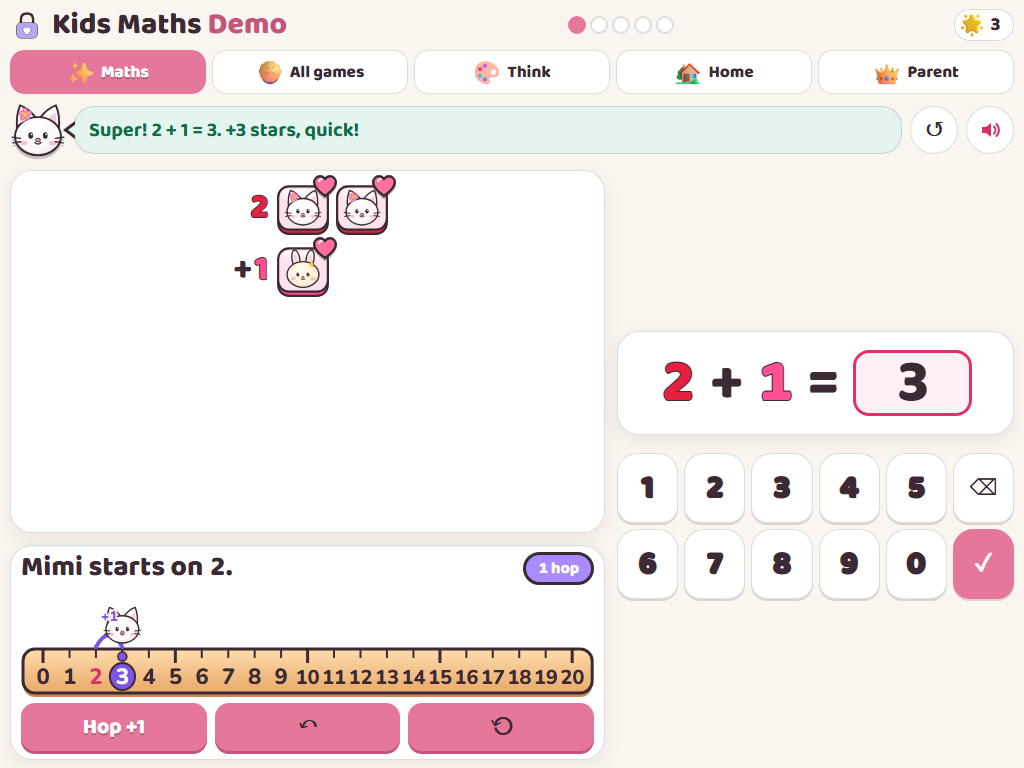
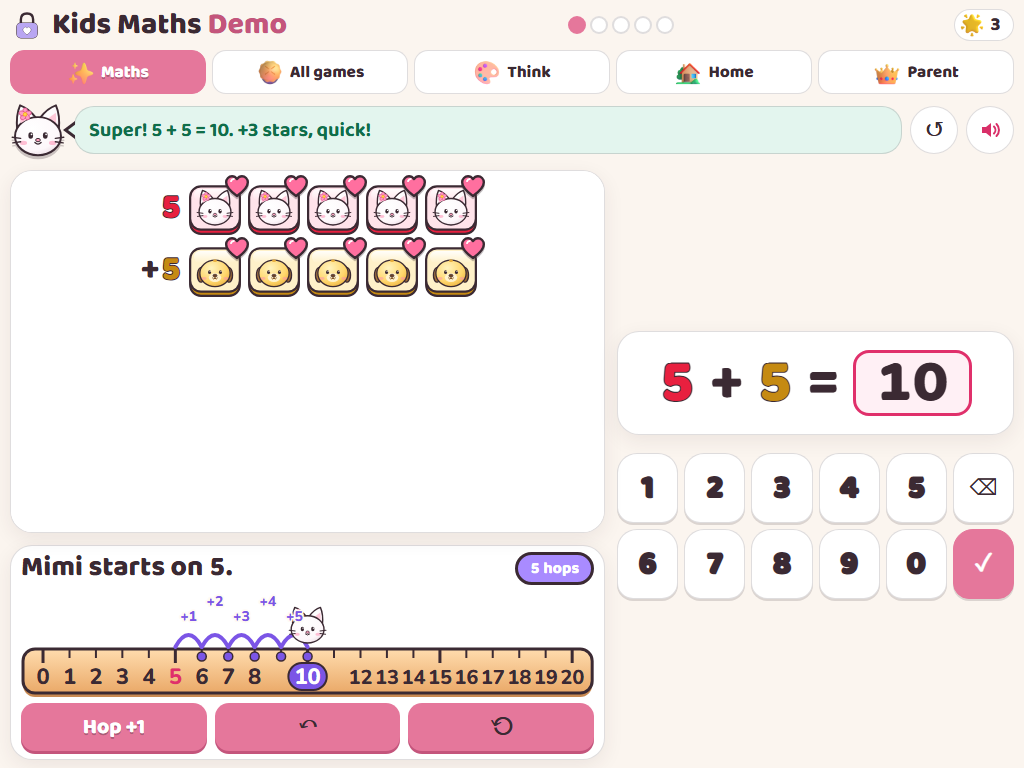
Back to the earlier sums screen for adding and taking away (Aldrin prefers it); River Crossing and Cafe Orders kept but switched off; Safari-engine chess test
Claude-Session: https://claude.ai/code/session_01T9KPNPMjnDcrQKtsaSJi3w

diff --git a/modules/mission.js b/modules/mission.js
@@ -5,6 +5,9 @@
 (function () {
   "use strict";
   const SET = 5, IDLE_CAP = 60000;
+  // Aldrin prefers the earlier sums screen (blocks, number line, keypad) for adding and taking away (19 Oct 2026).
+  // River Crossing and Cafe Orders stay in the code but are switched off.
+  const USE_NEW_SUMS_GAMES = false;
   let M = null, set = null, i = 0, inSet = 0, lastTouch = 0;
   const map = () => M || (M = KidsEngine.buildSkillMap(window.MathTopics || []));
   const now = () => Date.now();
@@ -45,14 +48,14 @@
     const s = map().map[id];
     if (!s || !s.ready) { i++; return i < set.items.length ? play() : nextSet(); }
     // Kennedy's adding and taking away to 20 is played as River Crossing: the number line is the river.
-    if (s.play.src === "sums" && who === "kennedy" && s.play.level <= 4 && window.River) {
+    if (USE_NEW_SUMS_GAMES && s.play.src === "sums" && who === "kennedy" && s.play.level <= 4 && window.River) {
       if (window.TopicHost && TopicHost.isOpen()) TopicHost.close();
       const known = (eng().skills[id]?.lvl || 0) >= 3;
       River.play({ level: s.play.level, head: known && Math.random() < .6, done: inSet, onAnswer: r => Mission.answered(r), onQuit: () => Mission.pause() });
       return;
     }
     // Marie's adding and taking away to 20 is played as Cafe Orders: she bakes and gives treats on ten-frame trays.
-    if (s.play.src === "sums" && who !== "kennedy" && s.play.level <= 4 && window.CafeOrders) {
+    if (USE_NEW_SUMS_GAMES && s.play.src === "sums" && who !== "kennedy" && s.play.level <= 4 && window.CafeOrders) {
       closeTopic();
       const known = (eng().skills[id]?.lvl || 0) >= 3;
       CafeOrders.play({ level: s.play.level, head: known && Math.random() < .6, onAnswer: r => Mission.answered(r), onQuit: () => Mission.pause() });

diff --git a/src/modules/mission.js b/src/modules/mission.js
@@ -5,6 +5,9 @@
 (function () {
   "use strict";
   const SET = 5, IDLE_CAP = 60000;
+  // Aldrin prefers the earlier sums screen (blocks, number line, keypad) for adding and taking away (19 Oct 2026).
+  // River Crossing and Cafe Orders stay in the code but are switched off.
+  const USE_NEW_SUMS_GAMES = false;
   let M = null, set = null, i = 0, inSet = 0, lastTouch = 0;
   const map = () => M || (M = KidsEngine.buildSkillMap(window.MathTopics || []));
   const now = () => Date.now();
@@ -45,14 +48,14 @@
     const s = map().map[id];
     if (!s || !s.ready) { i++; return i < set.items.length ? play() : nextSet(); }
     // Kennedy's adding and taking away to 20 is played as River Crossing: the number line is the river.
-    if (s.play.src === "sums" && who === "kennedy" && s.play.level <= 4 && window.River) {
+    if (USE_NEW_SUMS_GAMES && s.play.src === "sums" && who === "kennedy" && s.play.level <= 4 && window.River) {
       if (window.TopicHost && TopicHost.isOpen()) TopicHost.close();
       const known = (eng().skills[id]?.lvl || 0) >= 3;
       River.play({ level: s.play.level, head: known && Math.random() < .6, done: inSet, onAnswer: r => Mission.answered(r), onQuit: () => Mission.pause() });
       return;
     }
     // Marie's adding and taking away to 20 is played as Cafe Orders: she bakes and gives treats on ten-frame trays.
-    if (s.play.src === "sums" && who !== "kennedy" && s.play.level <= 4 && window.CafeOrders) {
+    if (USE_NEW_SUMS_GAMES && s.play.src === "sums" && who !== "kennedy" && s.play.level <= 4 && window.CafeOrders) {
       closeTopic();
       const known = (eng().skills[id]?.lvl || 0) >= 3;
       CafeOrders.play({ level: s.play.level, head: known && Math.random() < .6, onAnswer: r => Mission.answered(r), onQuit: () => Mission.pause() });

diff --git a/tests/chess_ui_test_webkit.py b/tests/chess_ui_test_webkit.py
@@ -1,0 +1,123 @@
+"""Silent browser check of the play-first chess screen (Marie at 1024 px, Kennedy at 375 px).
+Starts its own server on port 8771 from the repo root. Run from the repo root: python tests/chess_ui_test.py
+Saves chess_marie_1024.png and chess_kennedy_375.png in the repo root. Last line: RESULT x/y passed."""
+import subprocess
+import sys
+import time
+from pathlib import Path
+from playwright.sync_api import sync_playwright
+
+ROOT = Path(__file__).resolve().parent.parent
+PORT = 8771
+URL = f"http://localhost:{PORT}/index.html"
+STUB = ('window.speechSynthesis={speak(){},cancel(){},getVoices(){return[]},pause(){},resume(){}};'
+        'window.SpeechSynthesisUtterance=function(){};window.AudioContext=window.webkitAudioContext=undefined;window.__cookAutoPlay=true;')
+res = []
+
+
+def ok(name, cond, extra=""):
+    res.append(bool(cond))
+    print(("PASS " if cond else "FAIL ") + name + ("" if cond or extra == "" else " | " + str(extra)))
+
+
+def open_chess(pg, who):
+    pg.goto(URL)
+    pg.wait_for_timeout(700)
+    if who == "marie":
+        pg.click('[data-p="marie"]')
+    else:
+        pg.evaluate("()=>startAs('kennedy')")
+    pg.wait_for_timeout(500)
+    pg.evaluate("""()=>{const k=KidsEngine.dayKey(Date.now()); P.days=P.days||{}; P.days[k]={n:15,clean:15,ms:60000,sets:3,skills:{}}; save(); showView('think');}""")
+    pg.wait_for_timeout(500)
+    pg.click('[data-game="chess"]')
+    pg.wait_for_timeout(600)
+
+
+def run(browser, who, vw, vh, shot):
+    pg = browser.new_page(viewport={"width": vw, "height": vh})
+    pg.add_init_script(STUB)
+    pg.set_default_timeout(6000)
+    errs = []
+    pg.on("pageerror", lambda e: errs.append(str(e)))
+    tag = f"{who} {vw}px "
+    open_chess(pg, who)
+    ok(tag + "board shown immediately (no lesson list)", pg.locator(".ch-board").count() == 1 and pg.locator('[data-act="start"]').count() == 0)
+    ok(tag + "64 square buttons with labels", pg.locator("button.ch-sq[aria-label]").count() == 64)
+    ok(tag + "32 piece tokens", pg.locator(".ch-tok").count() == 32)
+    ok(tag + "all 32 tokens have character art", pg.locator(".ch-tok .ch-face svg").count() == 32, pg.locator(".ch-tok .ch-face svg").count())
+    ok(tag + "32 piece badges", pg.locator(".ch-badge").count() == 32)
+    if who == "marie":
+        ok(tag + "Kitty family faces used", pg.locator(".ch-tok svg.kc").count() == 16 and pg.locator(".ch-tok svg.ka-badguy").count() == 16,
+           (pg.locator(".ch-tok svg.kc").count(), pg.locator(".ch-tok svg.ka-badguy").count()))
+    else:
+        ok(tag + "knight art and goblins used", pg.locator(".ch-tok svg.ka-badguy").count() == 16 and pg.locator(".ch-tok svg.ka-horse").count() == 2
+           and pg.locator(".ch-tok svg.ka-knight").count() >= 9 and pg.locator(".ch-tok svg.ka-buddy").count() == 3 and pg.locator(".ch-tok svg.ch-tower").count() == 2,
+           (pg.locator(".ch-tok svg.ka-badguy").count(), pg.locator(".ch-tok svg.ka-horse").count()))
+    ok(tag + "aria labels name characters", "e 2, your pawn" in pg.get_attribute('[data-sq="52"]', "aria-label") and "goblin" in pg.get_attribute('[data-sq="4"]', "aria-label"),
+       pg.get_attribute('[data-sq="52"]', "aria-label"))
+    ok(tag + "no horizontal scroll", pg.evaluate("()=>document.documentElement.scrollWidth<=document.documentElement.clientWidth"))
+    # tap a white pawn: legal markers + a tip
+    pg.click('[data-sq="52"]')
+    pg.wait_for_timeout(200)
+    ok(tag + "tapping e2 pawn shows 2 move dots", pg.locator(".ch-mv").count() == 2, pg.locator(".ch-mv").count())
+    ok(tag + "selected square highlighted", pg.locator(".ch-sl").count() == 1)
+    ok(tag + "pawn tip shown in status", "Pawns" in pg.inner_text(".ch-status"), pg.inner_text(".ch-status"))
+    # tapping the pony / knight shows its tip
+    pg.click('[data-sq="52"]')
+    pg.click('[data-sq="62"]')
+    pg.wait_for_timeout(200)
+    ok(tag + "knight tip shown", "L" in pg.inner_text(".ch-status") and pg.locator(".ch-mv").count() == 2, pg.inner_text(".ch-status"))
+    pg.click('[data-sq="62"]')
+    # hint draws an arrow
+    pg.click('[data-act="hint"]')
+    pg.wait_for_timeout(200)
+    ok(tag + "Hint draws an arrow and gives a reason", pg.locator(".ch-arrow").count() == 1 and len(pg.inner_text(".ch-status")) > 10, pg.inner_text(".ch-status"))
+    # make a legal move: e2-e4, the coach replies
+    pg.click('[data-sq="52"]')
+    pg.click('[data-sq="36"]')
+    pg.wait_for_function("()=>document.querySelector('[data-act=hint]') && !document.querySelector('[data-act=hint]').disabled", timeout=5000)
+    pg.wait_for_timeout(200)
+    moved = pg.evaluate("()=>[...document.querySelectorAll('.ch-sq')].filter(b=>/goblin/.test(b.getAttribute('aria-label'))).length")
+    ok(tag + "e4 pawn is placed", "your pawn" in pg.get_attribute('[data-sq="36"]', "aria-label"))
+    ok(tag + "coach replied with a soft last-move highlight", pg.locator(".ch-ls").count() == 2 and "goblin" in pg.inner_text(".ch-status"), pg.inner_text(".ch-status"))
+    ok(tag + "16 goblins still on the board", moved == 16, moved)
+    # equal-width button row
+    ws = pg.evaluate("()=>[...document.querySelectorAll('.ch-actions > button')].map(b=>Math.round(b.getBoundingClientRect().width))")
+    ok(tag + "five equal-width buttons (max-min <= 2px)", len(ws) == 5 and max(ws) - min(ws) <= 2, ws)
+    labels = pg.evaluate("()=>[...document.querySelectorAll('.ch-actions > button')].map(b=>b.dataset.act)")
+    ok(tag + "button order Hint, Undo, New game, Piece lessons, Exit", labels == ["hint", "undo", "newgame", "menu", "exit"], labels)
+    # undo
+    pg.click('[data-act="undo"]')
+    pg.wait_for_timeout(200)
+    ok(tag + "Undo puts the pawn back", "e 2, your pawn" in pg.get_attribute('[data-sq="52"]', "aria-label"))
+    ok(tag + "status line is polite live region", pg.get_attribute(".ch-status", "aria-live") == "polite")
+    ok(tag + "board fits the screen width", pg.evaluate("()=>document.querySelector('.ch-board').getBoundingClientRect().right<=window.innerWidth"))
+    # piece lessons still reachable
+    pg.click('[data-act="menu"]')
+    pg.wait_for_timeout(200)
+    ok(tag + "Piece lessons opens the lesson list", pg.locator('[data-act="start"]').count() >= 1)
+    pg.click('[data-act="game"]')
+    pg.wait_for_timeout(200)
+    ok(tag + "Back to the game works", pg.locator(".ch-tok").count() == 32)
+    pg.screenshot(path=str(ROOT / shot))
+    ok(tag + "no page errors", not errs, errs[:2])
+    pg.close()
+
+
+def main():
+    server = subprocess.Popen([sys.executable, "-m", "http.server", str(PORT)], cwd=str(ROOT), stdout=subprocess.DEVNULL, stderr=subprocess.DEVNULL)
+    time.sleep(1.2)
+    try:
+        with sync_playwright() as p:
+            b = p.webkit.launch()
+            run(b, "marie", 1024, 768, "chess_marie_1024.png")
+            run(b, "kennedy", 375, 667, "chess_kennedy_375.png")
+            b.close()
+    finally:
+        server.terminate()
+    print(f"RESULT {sum(res)}/{len(res)} passed")
+    sys.exit(0 if all(res) else 1)
+
+
+main()
